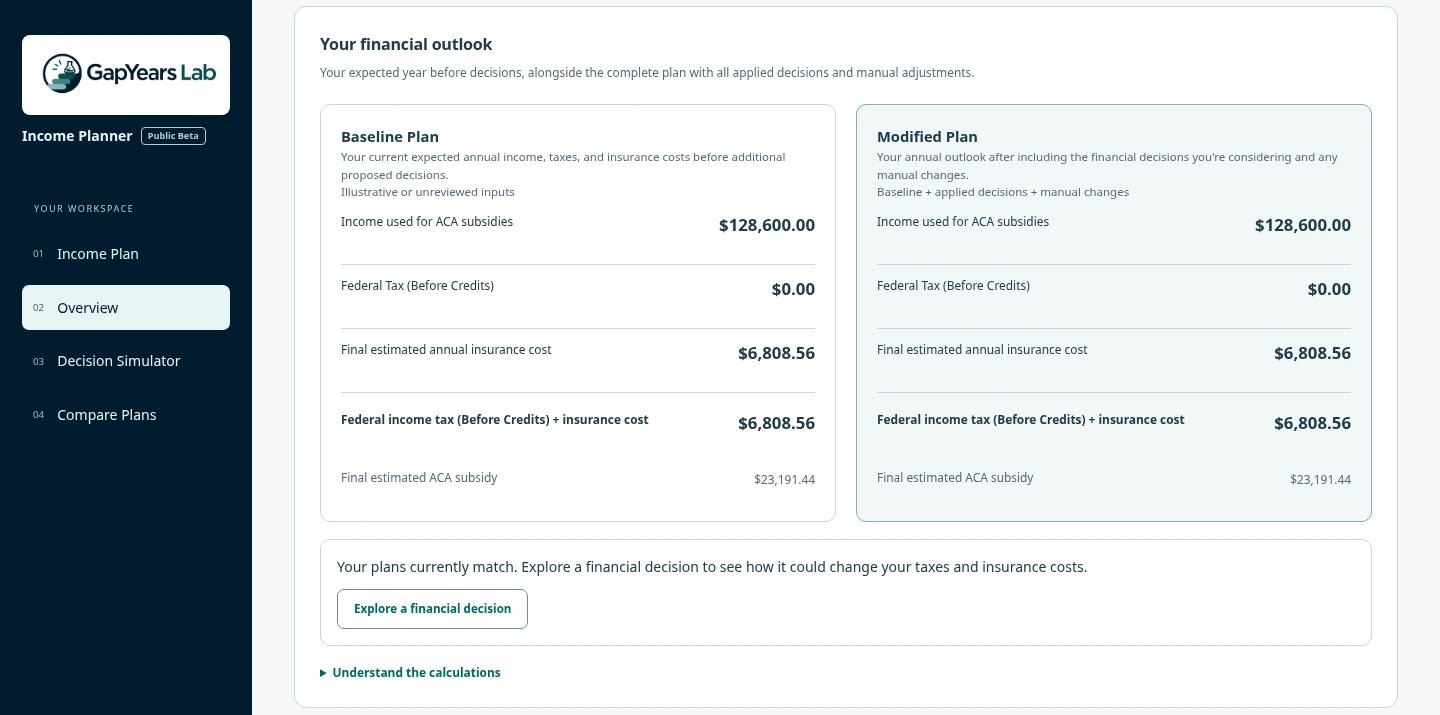
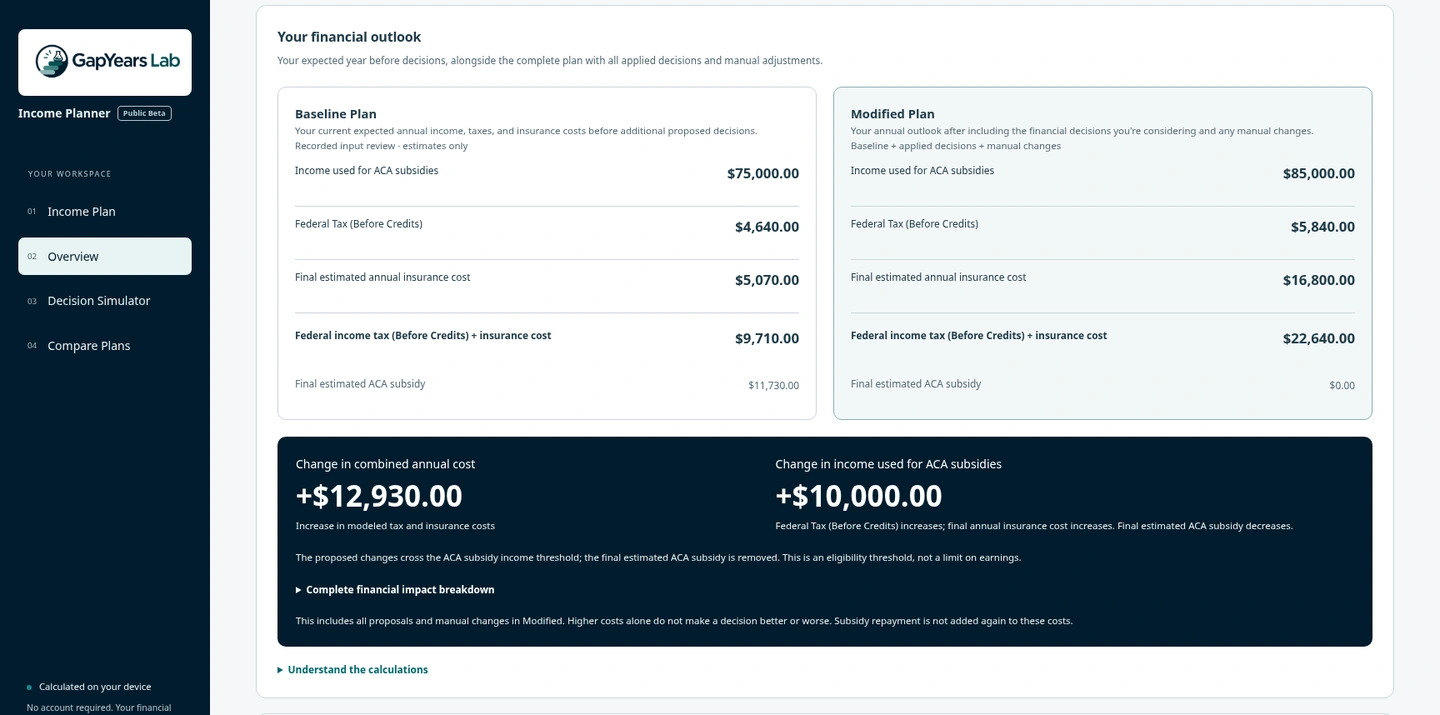
Show applied Roth conversion in genuine planner preview

diff --git a/index.html b/index.html
@@ -220,9 +220,9 @@
 <p class="lead">Explore how investment gains, Roth conversions, and other income decisions affect federal taxes and ACA healthcare costs—all in one planning workspace.</p>
 <figure class="product-capture">
 <a href="/assets/product/income-planner-public-beta.webp" aria-label="View the Income Planner screenshot at full size">
-<img src="/assets/product/income-planner-public-beta.webp" width="1440" height="715" loading="lazy" decoding="async" alt="Actual Income Planner Overview with matching hypothetical 2026 Baseline and Modified plans: ACA income $128,600, federal tax before credits $0, estimated annual insurance cost $6,808.56, and estimated ACA subsidy $23,191.44.">
+<img src="/assets/product/income-planner-public-beta.webp" width="1440" height="715" loading="lazy" decoding="async" alt="Actual 2026 Income Planner Overview after applying a hypothetical $10,000 Roth conversion: Baseline ACA income $75,000 and Modified $85,000; combined estimated federal tax and insurance costs $9,710 and $22,640.">
 </a>
-<figcaption>Actual Income Planner interface showing a hypothetical 2026 planning scenario. Baseline and Modified match; no additional decisions have been applied. <a href="/assets/product/income-planner-public-beta.webp">View full-size screenshot</a>.</figcaption>
+<figcaption>Actual Income Planner interface comparing a hypothetical 2026 income plan before and after a $10,000 Roth conversion applied through Decision Simulator. Results are estimates based on the example’s assumptions. <a href="/assets/product/income-planner-public-beta.webp">View full-size screenshot</a>.</figcaption>
 </figure>
 <p class="scope-note">The screenshot shows the application’s continuous planning estimates. The whole-dollar example above uses the reviewed draft filing method; the two presentations are explained in <a href="/methodology/#reference-case">our methodology</a>.</p>
 <div class="actions">

diff --git a/docs/product-preview/README.md b/docs/product-preview/README.md
@@ -1,15 +1,30 @@
-# Genuine live product preview
+# Genuine live Roth-conversion comparison
 
-`assets/product/income-planner-public-beta.webp` is a real Chromium capture of the live Income Planner, not an illustration, AI image, composite, or recreated interface. `capture-evidence.json` records source URL, synthetic input assumptions, observed outputs, clip, compression settings and hash. The screenshot retains the actual “Illustrative or unreviewed inputs” label. No personal/account data or account connections were used.
+`assets/product/income-planner-public-beta.webp` shows the actual live Overview after a genuine hypothetical decision was added through Decision Simulator. The previous matching-plan screenshot has been replaced. `capture-evidence.json` records synthetic inputs, UI sequence, observed outputs, capture dimensions, compression and file hash.
 
-The preferred hypothetical 2026 joint/four-person contiguous-state example was entered through the live UI. Nonqualified dividends $27,000, qualified dividends $13,000 and long-term gains $88,600 yield $128,600 ACA income. Monthly selected/benchmark premiums are $2,500/$3,000; zero monthly advances and full-year eligibility/coverage assumptions are explicit. Baseline and Modified intentionally match; no decision has been applied. The caption does not pretend this is a comparison of different plans. Unused fields remain blank under the current UI's unused-category handling.
+## Reproduce the synthetic workflow
 
-Observed continuous estimates are $0 federal tax before credits, $23,191.44 final estimated subsidy and $6,808.56 annual insurance cost. They are not substituted for the distinct approximate whole-dollar filing-method comparison on the homepage. The site explains this distinction and links Methodology.
+Use the existing external Playwright/Chromium setup to run `capture-live-overview.cjs` through the inherited HTTPS proxy. It starts a fresh disposable context and writes only local review artifacts in `/tmp`; it does not change application source or its persistence implementation.
 
-`capture-live-overview.cjs` documents the UI capture workflow. It requires the existing external Playwright/Chromium test setup and inherited HTTPS proxy; it is not shipped with the site. It writes a PNG to `/tmp`, scrolls the browser to the actual financial-outlook panel and captures a region retaining the entire panel and sidebar context. No app source, DOM text/styles, engine, or numerical output is modified. Compression used WebP quality 92/method 6 without resizing, overlays or number edits. No dependency was added to the website.
+1. Skip the introduction and enter a 2026 joint-filing, two-person contiguous/DC household.
+2. Enter $75,000 in taxable retirement withdrawals. Leave other income/adjustment categories unused; the current UI treats them as zero. Use the base standard deduction.
+3. Enter hypothetical monthly eligible-member selected-plan/benchmark Silver premiums of $1,400/$1,600, zero monthly advances and January–December coverage. Record the Marketplace/lawful-presence/eligibility assumptions with no other qualifying coverage and confirm full-year records. These are not real quotes or a taxpayer eligibility determination.
+4. Review the synthetic Baseline inputs using the app's checkbox.
+5. Open Decision Simulator, enter an **additional $10,000 taxable Roth conversion** named “Hypothetical $10,000 Roth conversion,” confirm insurance assumptions, and wait for the actual estimated $12,930 combined-cost increase. The raw simulator text is recorded locally before proceeding.
+6. Click **Add to Modified Plan**, then open Overview. Verify one hypothetical decision, Baseline $75,000 and Modified $85,000, and the actual output differences before capture. No baseline conversion or manual Modified override is entered.
 
-Capture is from the observed live service; the deployed build commit was not independently established. Future UI changes may require reviewing and recapturing rather than manufacturing an old view. Synthetic autosave occurred only in a disposable browser context; persistence implementation was untouched.
+| Observed measure | Baseline | Modified |
+| --- | ---: | ---: |
+| ACA income | $75,000.00 | $85,000.00 |
+| Federal tax before credits | $4,640.00 | $5,840.00 |
+| Estimated ACA subsidy | $11,730.00 | $0.00 |
+| Estimated annual insurance cost | $5,070.00 | $16,800.00 |
+| Combined tax + insurance cost | $9,710.00 | $22,640.00 |
 
-Before/after full-page review screenshots are `../screenshots/home-refinement-{before,after}-{390,1440}.png`. At 390px the page height decreased from 11,035 to 9,655px; at 1440px from 6,524 to 6,144px. Source text decreased from 1,318 to 1,236 words while adding the real preview. Planned topics remain on Learn; the homepage retains the published article. The validated comparison is unchanged except for CTA wording/URL normalization.
+The app displays a **+$12,930.00 combined-cost change** and +$10,000.00 of ACA income. Under this assumed household configuration the conversion crosses the modeled subsidy threshold. This does not make a conversion universally good/bad or predict another household's outcome. The conversion is a proposed noncash asset transfer, not completed income or a lifetime strategy. These are observed continuous planning estimates, not certified tax-return results.
 
-Validation: build/link/metadata/sitemap checks; existing financial reference checks; 50 responsive/navigation checks; separate 390/768/1440 image-loading/aspect-ratio/alt/lazy-loading and native full-size keyboard navigation checks; visual review. Homepage title, metadata, analytics, privacy statement and all unrelated pages/configuration are unchanged. No new JS or image-viewer dependency is shipped.
+## Image handling and scope
+
+The real browser viewport is 1728×1100; a 1728×858 region retains both complete financial cards, the actual delta explanation, and sidebar context. It is resized proportionally to 1440×715 (the original image ratio) with Lanczos and encoded as WebP quality 94/method 6. No numbers, DOM text/styles, application UI, or pixels are fabricated or composited. The applied conversion is documented in the caption; no personal financial information is used. The screenshot's deployed source commit was not independently established.
+
+The original responsive dimensions, native full-size link, lazy loading, and continuous-estimate explanation remain. Only the image, its alt/caption, and its existing provenance files change; unrelated homepage layout and the independently validated cliff example are preserved. Prior homepage before/after screenshots are historical review artifacts, not the new preview.
